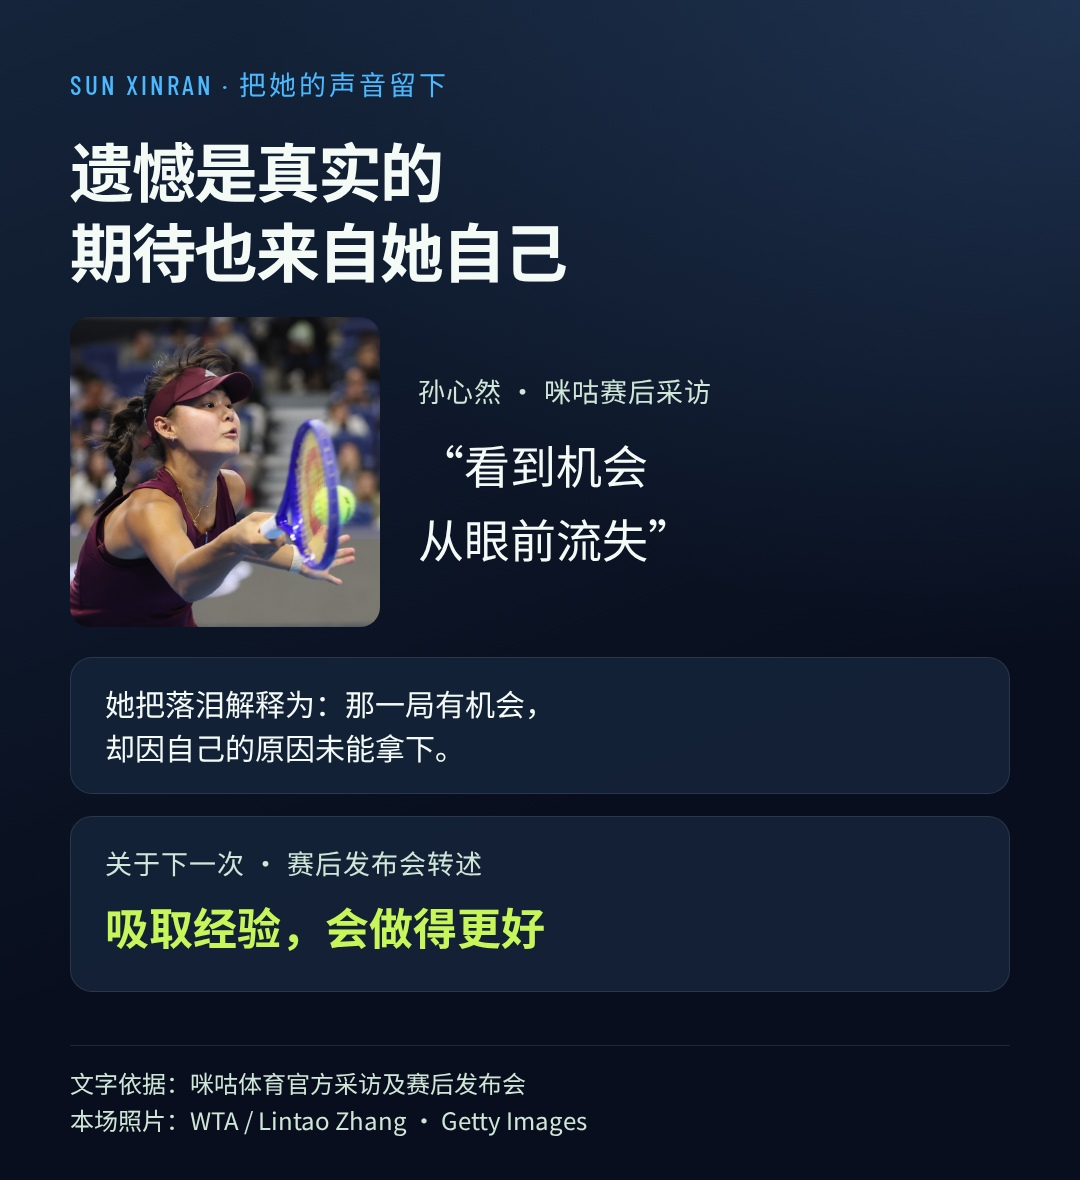
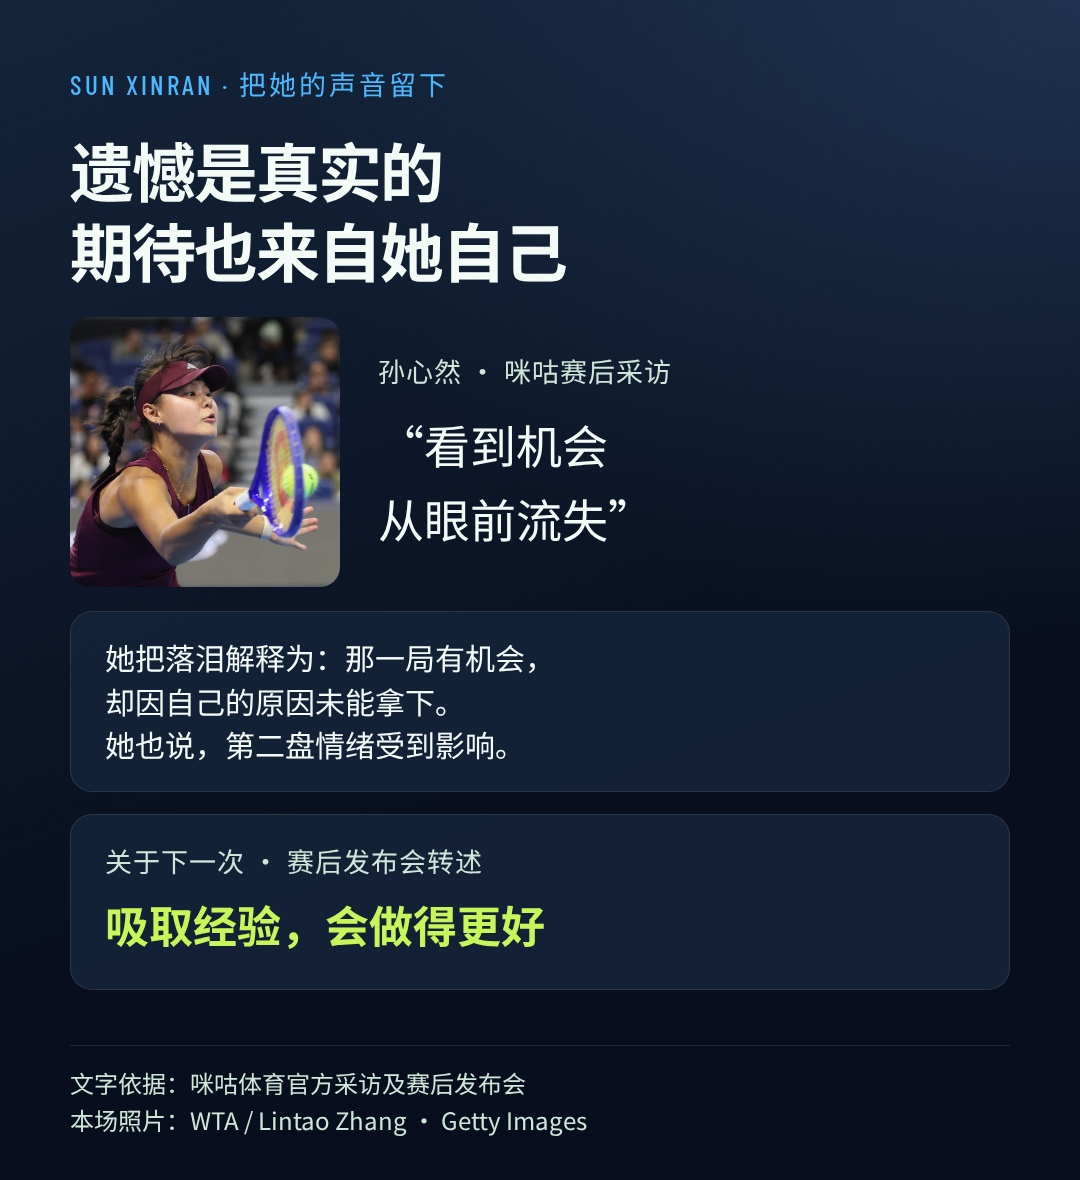
story: include Sun own account of second set emotion and tighten ending

Changed region(s): [[0.0611, 0.2441, 0.6417, 0.6712], [0.275, 0.7017, 0.5194, 0.8237], [0.0917, 0.7017, 0.275, 0.8237]]

diff --git a/research/sun-gauff-replay-2026/render_evidence.py b/research/sun-gauff-replay-2026/render_evidence.py
@@ -66,8 +66,8 @@ PAGES = {
       <div class="panel"><div class="meta">赛事运行层面</div><h2 style="margin-top:8px">说明原因 · 排除问题</h2><p class="small muted">确保广告稳定，防止再次发生</p></div>
       <div class="panel"><div class="meta">规则提供的追责机制</div><h2 class="accent" style="margin-top:8px">调查、整改及相应处罚</h2><p class="small muted">包括警告、罚款等；本场处分尚未证实。</p></div>''', '广告标准：XVIII.A.9 · 违规程序：XVIII.A.53<br>责任单位与故障原因仍需赛事方说明'),
     'sun-words': page('SUN XINRAN · 把她的声音留下', '遗憾是真实的<br>期待也来自她自己', f'''
-      <div style="display:flex;gap:38px;align-items:center;margin-bottom:30px"><img src="{PORTRAIT}" style="width:310px;height:310px;border-radius:20px;object-fit:cover;object-position:42% 28%"><div style="flex:1"><div class="meta">孙心然 · 咪咕赛后采访</div><p class="quote" style="margin-top:16px">“看到机会<br>从眼前流失”</p></div></div>
-      <div class="panel"><p class="small">她把落泪解释为：那一局有机会，<br>却因自己的原因未能拿下。</p></div>
+      <div style="display:flex;gap:38px;align-items:center;margin-bottom:24px"><img src="{PORTRAIT}" style="width:270px;height:270px;border-radius:20px;object-fit:cover;object-position:42% 28%"><div style="flex:1"><div class="meta">孙心然 · 咪咕赛后采访</div><p class="quote" style="margin-top:16px">“看到机会<br>从眼前流失”</p></div></div>
+      <div class="panel"><p class="small">她把落泪解释为：那一局有机会，<br>却因自己的原因未能拿下。<br>她也说，第二盘情绪受到影响。</p></div>
       <div class="panel"><div class="meta">关于下一次 · 赛后发布会转述</div><h2 class="accent" style="margin-top:14px">吸取经验，会做得更好</h2></div>
       ''', '文字依据：咪咕体育官方采访及赛后发布会<br>本场照片：WTA / Lintao Zhang · Getty Images'),
 }
